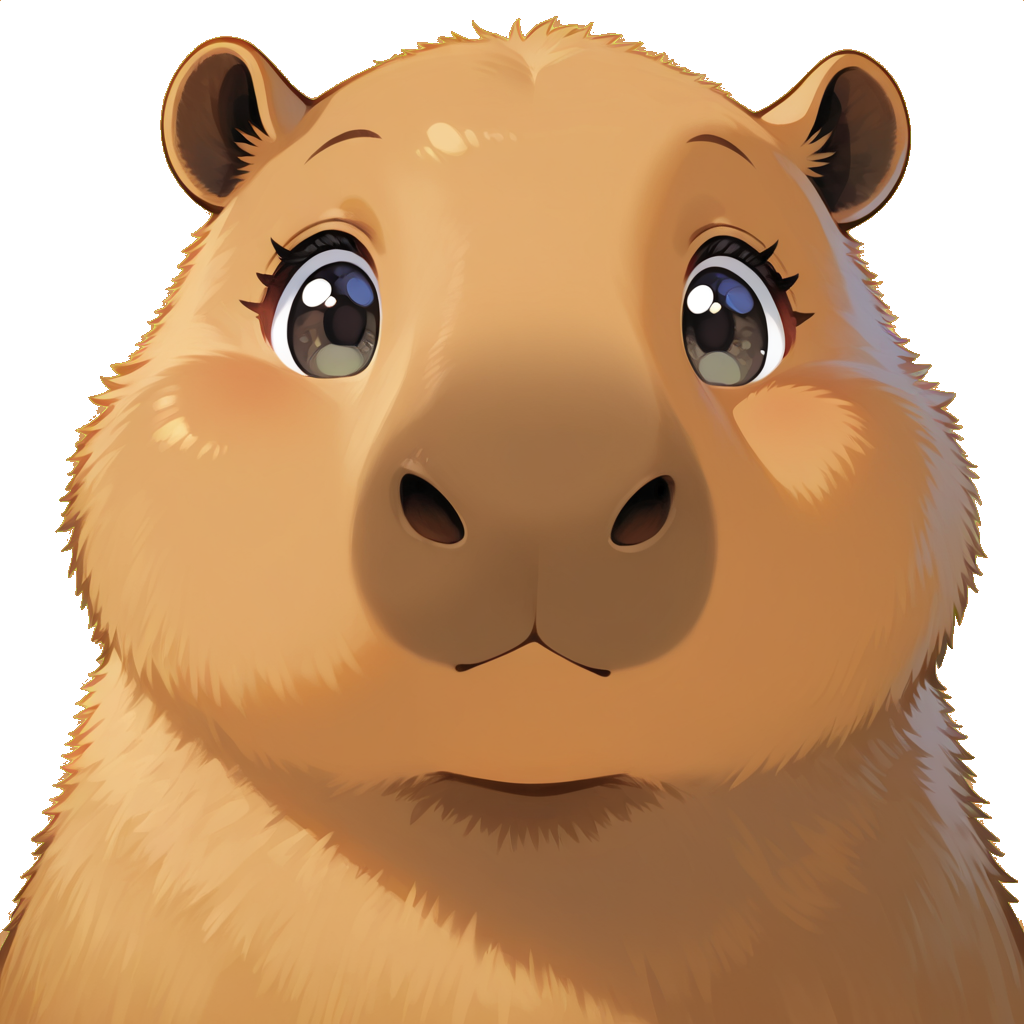
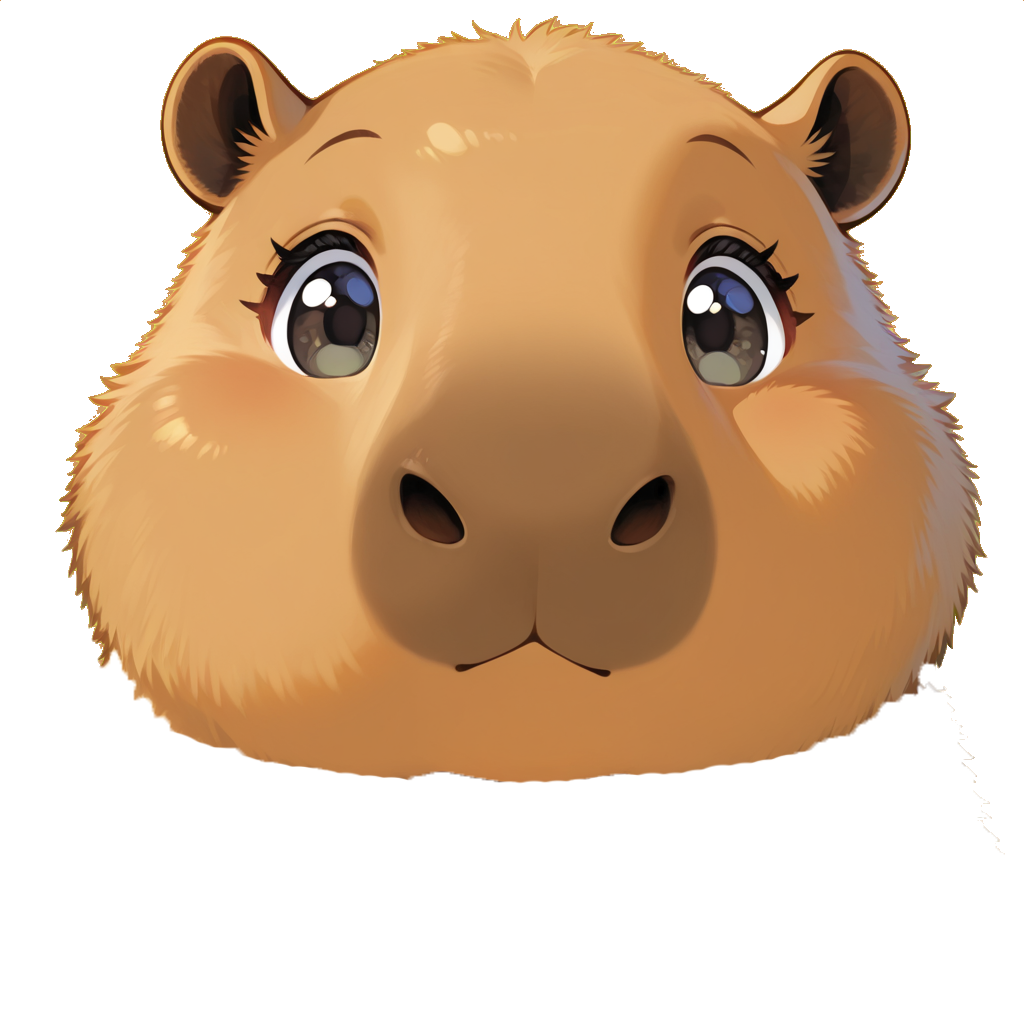
引擎強化 + Windows 完整安裝檔（含 OBS）
引擎：貼圖載入自動裁切(定位更準)、即時微調鍵(= - [ ] o)、攝影機自動偵測+切換(n)、虛擬人嘴型同步；
filters.json 改用實際存在的 5 個貼圖(水豚/白熊/雙馬尾/花圈/光環)。
安裝檔(installer/)：Inno Setup 打包，內含 OBS 靜默安裝(註冊虛擬攝影機)+ 引擎 + 使用說明，
初學者雙擊即裝、設定就緒。Mac/Linux 原生安裝檔無法在 Windows 跨平台編譯，先跳過(原始碼可跑)。

Changed region(s): [[0.0, 0.625, 1.0, 1.0]]

diff --git a/engine/primelive_engine.py b/engine/primelive_engine.py
@@ -75,6 +75,11 @@ def load_sticker(path):
         im = cv2.imread(path, cv2.IMREAD_UNCHANGED)   # BGRA
         if im is not None and im.shape[2] == 4:
             im = cv2.cvtColor(im, cv2.COLOR_BGRA2RGBA)
+            # 自動裁切到不透明範圍：讓貼圖內容貼齊邊框，縮放/定位才會準
+            a = im[..., 3]
+            ys, xs = np.where(a > 16)
+            if len(xs) > 0:
+                im = im[ys.min():ys.max() + 1, xs.min():xs.max() + 1]
         _stk_cache[path] = im
     return _stk_cache[path]
 
@@ -309,7 +314,8 @@ def main():
         print("[錯誤] 找不到模型 face_landmarker.task，請先依 README「模型」段取得並放到 obs/engine/。")
         sys.exit(2)
 
-    with open(os.path.join(HERE, "filters.json"), "r", encoding="utf-8") as f:
+    filters_path = os.path.join(HERE, "filters.json")
+    with open(filters_path, "r", encoding="utf-8") as f:
         presets = json.load(f)["presets"]
     active = max(0, min(args.preset, len(presets) - 1))
 
@@ -335,12 +341,28 @@ def main():
     else:
         print("[note] 找不到 selfie_segmenter.task，換背景功能停用")
 
-    cap = cv2.VideoCapture(args.camera, cv2.CAP_DSHOW)
-    cap.set(cv2.CAP_PROP_FRAME_WIDTH, args.cap_width)
-    cap.set(cv2.CAP_PROP_FRAME_HEIGHT, args.cap_height)
-    ok, frame = cap.read()
-    if not ok:
-        print("[錯誤] 開不了攝影機 index=%d" % args.camera)
+    def open_cam(idx):
+        c = cv2.VideoCapture(idx, cv2.CAP_DSHOW)
+        c.set(cv2.CAP_PROP_FRAME_WIDTH, args.cap_width)
+        c.set(cv2.CAP_PROP_FRAME_HEIGHT, args.cap_height)
+        ok, fr = c.read()
+        if ok and fr is not None:
+            return c, fr
+        c.release()
+        return None, None
+
+    cap, frame = open_cam(args.camera)
+    if cap is None:   # 指定的攝影機開不了 → 自動掃描 0~5 找可用的（給別台電腦用）
+        for idx in range(6):
+            if idx == args.camera:
+                continue
+            cap, frame = open_cam(idx)
+            if cap is not None:
+                print("[note] camera %d 開不了，自動改用 camera %d" % (args.camera, idx))
+                args.camera = idx
+                break
+    if cap is None:
+        print("[錯誤] 找不到可用的攝影機。請確認攝影機已接上、沒被其他程式佔用。")
         sys.exit(3)
     H, W = frame.shape[:2]
     print("[ok] 攝影機 %dx%d，濾鏡 %d 個。數字鍵切換，q 離開。" % (W, H, len(presets)))
@@ -435,9 +457,40 @@ def main():
                 k = cv2.waitKey(1) & 0xFF
                 if k == ord("q"):
                     break
-                for i, pr in enumerate(presets):
-                    if k == ord(pr["key"]):
-                        ui["active"] = i
+                elif k in (ord("="), ord("+")) and "scale" in presets[active]:
+                    presets[active]["scale"] = round(presets[active]["scale"] + 0.1, 2)
+                    print("  scale =", presets[active]["scale"])
+                elif k == ord("-") and "scale" in presets[active]:
+                    presets[active]["scale"] = round(presets[active]["scale"] - 0.1, 2)
+                    print("  scale =", presets[active]["scale"])
+                elif k == ord("]") and presets[active].get("anchor") == "head":
+                    presets[active]["y_off"] = round(presets[active].get("y_off", -0.15) + 0.02, 3)
+                    print("  y_off =", presets[active]["y_off"])
+                elif k == ord("[") and presets[active].get("anchor") == "head":
+                    presets[active]["y_off"] = round(presets[active].get("y_off", -0.15) - 0.02, 3)
+                    print("  y_off =", presets[active]["y_off"])
+                elif k == ord("o"):
+                    with open(filters_path, "w", encoding="utf-8") as f:
+                        json.dump({"presets": presets}, f, ensure_ascii=False, indent=2)
+                    print("  已存回 filters.json")
+                elif k == ord("n"):   # 切換到下一個可用攝影機
+                    cap.release()
+                    nxt, newcap = args.camera, None
+                    for _ in range(6):
+                        nxt = (nxt + 1) % 6
+                        newcap, _ = open_cam(nxt)
+                        if newcap is not None:
+                            break
+                    if newcap is not None:
+                        cap, args.camera = newcap, nxt
+                        print("  -> 切換攝影機 camera", nxt)
+                    else:
+                        cap, _ = open_cam(args.camera)
+                        print("  找不到其他攝影機")
+                else:
+                    for i, pr in enumerate(presets):
+                        if k == ord(pr["key"]):
+                            ui["active"] = i
 
             n += 1
             if args.frames and n >= args.frames:
